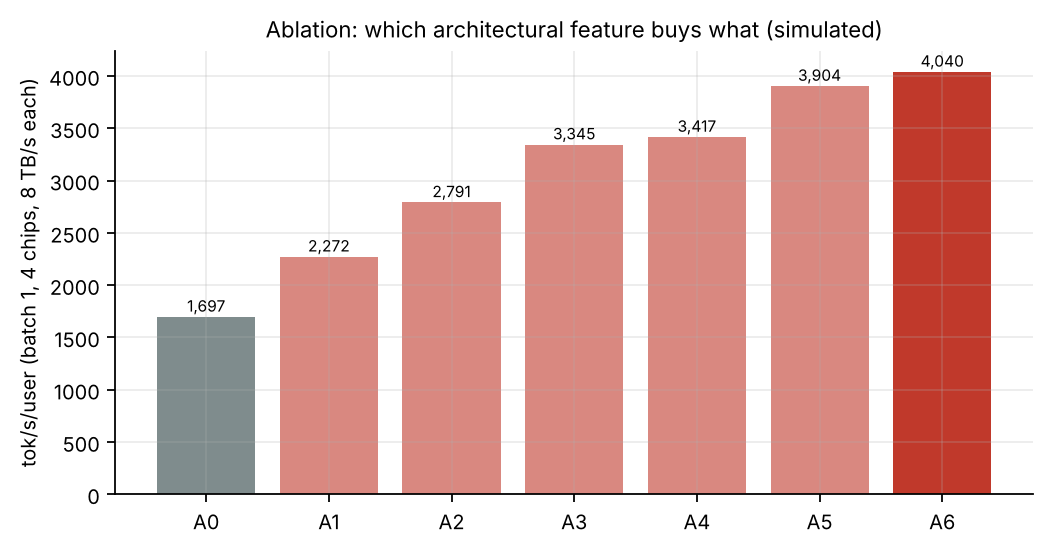
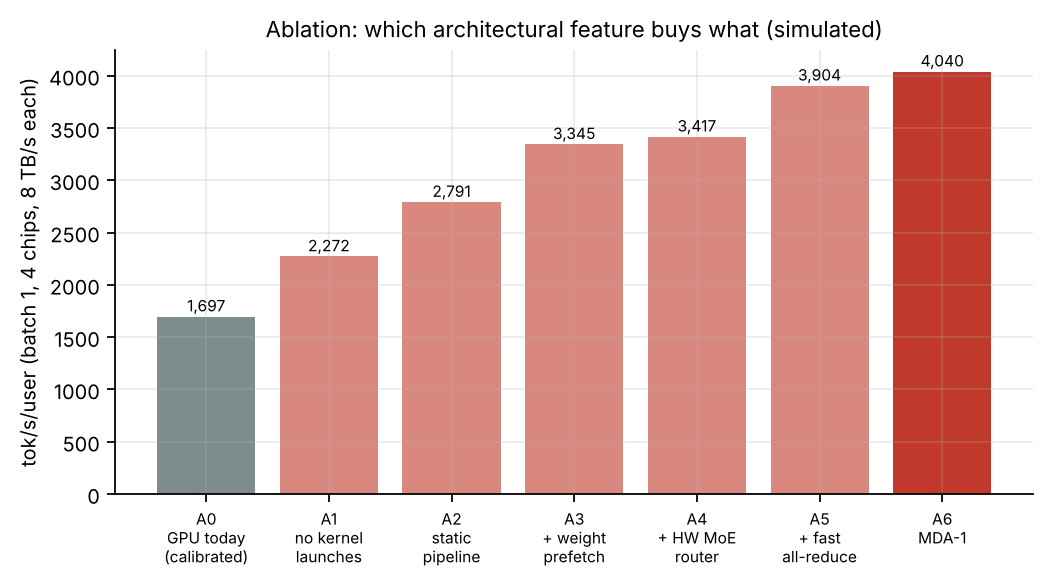
Add model_vs_nsys tool: model prediction in deepseek-ultrafast's nsys groups
Lets anyone falsify the fixed-latency diagnosis with one profile. Per-op
critical-path segments are now exposed by the engine; the prediction is
stored in results/decode.json and rendered into the docs.

diff --git a/tools/model_vs_nsys.py b/tools/model_vs_nsys.py
@@ -1,0 +1,64 @@
+#!/usr/bin/env python3
+"""Falsify the fixed-latency diagnosis with one profile.
+
+Prints the calibrated model's predicted time per decode step in the same kernel groups that
+deepseek-ultrafast's own `tools/nsys_breakdown.py` reports (each instant attributed to the
+earliest-started running kernel, which is the critical-path view our simulator also uses).
+
+    # on 4 x GB300, in the deepseek-ultrafast repo:
+    nsys profile -o step --capture-range=cudaProfilerApi ... target/release/run ...
+    python3 tools/nsys_breakdown.py step.sqlite          # their numbers
+    python3 tools/model_vs_nsys.py --config gb300_tp4     # our prediction (this repo)
+
+If the measured "all-reduce" + launch gaps + small-kernel groups do not add up to roughly the
+predicted fixed share, the diagnosis in docs/01 section 6 is wrong.
+"""
+import argparse
+import collections
+
+from experiments.platforms import platform, spec
+from sim.engine import simulate_step
+from sim.workload import DecodeWorkload, decode_step
+
+GROUPS = [  # deepseek-ultrafast tools/nsys_breakdown.py group names
+    "MoE (gate + route + experts)", "all-reduce / gather", "attention",
+    "dense projections (tcgen05: wqkv, wq_b, wo_a, wo_b)", "mHC side branch (dots, mix, prep)",
+    "indexer / top-k / compressor / rope", "draft phase (Markov head, FP8 draft head)",
+    "verify head + sampler + accept", "engram", "mma.sync GEMVs (drafter blocks, main_proj)",
+]
+
+
+def group(op) -> str:
+    if op.phase == "draft":
+        if op.name in ("markov_head", "draft_head"):
+            return GROUPS[6]
+        if op.category == "collective":
+            return GROUPS[1]
+        return GROUPS[9]
+    if op.phase == "head":
+        return GROUPS[7]
+    return {"moe_routed": GROUPS[0], "moe_shared": GROUPS[0], "router": GROUPS[0], "collective": GROUPS[1],
+            "attn_core": GROUPS[2], "attn_proj": GROUPS[3], "mhc": GROUPS[4], "indexer": GROUPS[5],
+            "engram": GROUPS[8]}.get(op.category, "other")
+
+
+def main() -> None:
+    ap = argparse.ArgumentParser()
+    ap.add_argument("--config", choices=["gb300_tp4", "b300_tp8"], default="gb300_tp4")
+    a = ap.parse_args()
+    key = "gpu_tp4" if a.config == "gb300_tp4" else "gpu_tp8"
+    ops = decode_step(spec(), DecodeWorkload(verify_head="fp8" if key == "gpu_tp4" else "bf16"))
+    r = simulate_step(ops, platform(key))
+    acc = collections.defaultdict(float)
+    for i, t in r.segments.items():
+        acc[group(ops[i])] += t
+    print(f"model: {a.config}, step {r.step_time * 1e6:.0f} us (calibrated)")
+    print("| group | predicted us / step | share |\n|---|---:|---:|")
+    for g, v in sorted(acc.items(), key=lambda kv: -kv[1]):
+        print(f"| {g} | {v * 1e6:.0f} | {100 * v / r.step_time:.0f}% |")
+    print(f"\npredicted fixed (launch/barrier/collective) share: "
+          f"{100 * (r.breakdown['overhead'] + r.breakdown['collective']) / r.step_time:.0f}%")
+
+
+if __name__ == "__main__":
+    main()

diff --git a/experiments/decode_experiments.py b/experiments/decode_experiments.py
@@ -58,6 +58,16 @@ def calibration_report() -> dict:
         wl = DecodeWorkload(verify_head=REP["configs"][k]["verify_head"])
         decomp[k] = run(hw, wl)
     out["decomposition"] = {k: v["breakdown_ms"] for k, v in decomp.items()}
+    # prediction in deepseek-ultrafast's own nsys_breakdown.py groups (tools/model_vs_nsys.py)
+    import collections
+    from tools.model_vs_nsys import group
+    ops4 = decode_step(spec(), DecodeWorkload(verify_head="fp8"))
+    r4 = simulate_step(ops4, platform("gpu_tp4"))
+    acc = collections.defaultdict(float)
+    for i, tseg in r4.segments.items():
+        acc[group(ops4[i])] += tseg
+    out["nsys_groups_tp4"] = [{"group": g, "us": v * 1e6, "share": v / r4.step_time}
+                              for g, v in sorted(acc.items(), key=lambda kv: -kv[1])]
     out["hbm_busy"] = {k: v["hbm_busy"] for k, v in decomp.items()}
     out["n_kernels_per_step"] = sum(o.n_kernels for o in decode_step(spec(), DecodeWorkload()))
     out["n_collectives_per_step"] = sum(1 for o in decode_step(spec(), DecodeWorkload()) if o.coll > 0)
@@ -273,7 +283,7 @@ def hbm_sweep() -> dict:
     ax.set_xlabel("HBM bandwidth per chip (TB/s)")
     ax.set_ylabel("tok/s/user (batch 1, 4 chips)")
     ax.set_title("Who converts memory bandwidth into speed (simulated)")
-    ax.legend(fontsize=7)
+    ax.legend(fontsize=7, loc="lower right")
     fig.savefig(FIG / "fig_hbm_sweep.png")
     plt.close(fig)
     return out
@@ -468,7 +478,9 @@ def ablation() -> dict:
     ax.bar(range(len(vals)), vals, color=[PALETTE["gpu"]] + ["#d98880"] * (len(vals) - 2) + [PALETTE["asic"]])
     for i, v in enumerate(vals):
         ax.text(i, v + 50, f"{v:,.0f}", ha="center", fontsize=7)
-    ax.set_xticks(range(len(vals)), [o["step"].split()[0] for o in out])
+    short = ["GPU today\n(calibrated)", "no kernel\nlaunches", "static\npipeline", "+ weight\nprefetch", "+ HW MoE\nrouter",
+             "+ fast\nall-reduce", "MDA-1"]
+    ax.set_xticks(range(len(vals)), [f'{o["step"].split()[0]}\n{s}' for o, s in zip(out, short)], fontsize=7)
     ax.set_ylabel("tok/s/user (batch 1, 4 chips, 8 TB/s each)")
     ax.set_title("Ablation: which architectural feature buys what (simulated)")
     fig.savefig(FIG / "fig_ablation.png")

diff --git a/sim/engine.py b/sim/engine.py
@@ -56,6 +56,7 @@ class StepResult:
     hbm_bytes: float
     breakdown: dict = field(default_factory=dict)  # critical-path time by cause
     by_category: dict = field(default_factory=dict)  # critical-path time by op category
+    segments: dict = field(default_factory=dict)  # op index -> critical-path time attributed to it
 
 
 def _op_costs(op: Op, hw: Hardware, hit_rate: float):
@@ -210,8 +211,8 @@ def simulate_step(ops: list[Op], hw: Hardware, hit_rate: float = 0.0) -> StepRes
     step = max(ends) + hw.step_overhead
     timings = [OpTiming(o, starts[i], ends[i], fetch_done[i], costs[i][3], costs[i][4], costs[i][5], hbm_bytes_op[i])
                for i, o in enumerate(ops)]
-    breakdown, by_cat = _critical_path(timings, costs, deps, hw.step_overhead)
-    return StepResult(step, timings, busy / step if step else 0.0, sum(hbm_bytes_op), breakdown, by_cat)
+    breakdown, by_cat, segs = _critical_path(timings, costs, deps, hw.step_overhead)
+    return StepResult(step, timings, busy / step if step else 0.0, sum(hbm_bytes_op), breakdown, by_cat, segs)
 
 
 def _buffer_ready(issued: dict[int, float], ends, cap: float, nbytes: float, t0: float) -> float:
@@ -240,6 +241,7 @@ def _critical_path(timings: list[OpTiming], costs, deps, step_ovh: float):
     or the compute-issue front) and attribute every segment of the step to one cause."""
     breakdown = {"overhead": step_ovh, "collective": 0.0, "memory": 0.0, "compute": 0.0}
     by_cat: dict[str, float] = {}
+    segs: dict[int, float] = {}
     i = max(range(len(timings)), key=lambda k: timings[k].end)
     T = timings[i].end
     while i is not None:
@@ -268,6 +270,7 @@ def _critical_path(timings: list[OpTiming], costs, deps, step_ovh: float):
         breakdown["memory"] += mem
         breakdown["compute"] += rest - mem
         by_cat[tm.op.category] = by_cat.get(tm.op.category, 0.0) + seg
+        segs[i] = segs.get(i, 0.0) + seg
         T = prev_T
         i = prev
-    return breakdown, by_cat
+    return breakdown, by_cat, segs

diff --git a/docs/02_design_rationale.md b/docs/02_design_rationale.md
@@ -31,13 +31,13 @@ puts the GPU on an owned basis. The SRAM-only and wafer-scale rows are idealized
 ### FPGA (AMD Alveo V80 / Versal HBM class)
 
 * **Capacity forces 16 cards.** Each V80 has 32 GB of HBM2e at 819 GB/s, so ~300 GB of weights needs ≥10 cards (16 for power-of-two sharding). The aggregate bandwidth (13 TB/s) is less than half of 4 x GB300 (32 TB/s).
-* **Compute is thin.** The DSP58 fabric gives ~35 TFLOP/s-equivalent of FP8 per card, so the drafter and the 6-row verify GEMVs become partly compute-bound (see `fig_step_breakdown` data in `results/decode.json`).
+* **Compute is thin.** The DSP58 fabric gives ~35 TFLOP/s-equivalent of FP8 per card, so the drafter and the 6-row verify GEMVs become partly compute-bound (0.92 ms of compute on the critical path; `results/decode.json`).
 * **Result: 1,179 tok/s/user, below the GPU baseline**, at 0.48 tok/J.
 * **What FPGA is good for here:** a zero-NRE prototype of the *control* ideas: the static schedule, the hardware router, prefetch and collectives. It can de-risk the ASIC's architecture. It is not a deployment vehicle for a 550B model.
 
 ### SRAM-only dataflow (Groq-class) and wafer-scale (Cerebras-class)
 
-* **Capacity sets chip count, not bandwidth.** 307 GB of FP4/FP8 weights needs 1,518 230 MB chips or 8 44 GB wafers per model replica, at 281 kW and 184 kW.
+* **Capacity sets chip count, not bandwidth.** 307 GB of FP4/FP8 weights needs 1,518 chips of 230 MB or 8 wafers of 44 GB per model replica, at 281 kW and 184 kW.
 * **Batch-1 per-user speed can be very high,** because SRAM bandwidth is effectively unlimited (an idealized 9,462 and 7,813 tok/s/user).
 * **Energy per token at low batch is 12-15x worse than the GPU.** These systems recover only by pipelining hundreds of concurrent requests through the layer groups.
 * **They are also exposed to model churn.** A 1.5k-chip replica is laid out for one model's size.

diff --git a/docs/05_limitations.md b/docs/05_limitations.md
@@ -12,7 +12,7 @@ output of a Python performance model whose inputs are listed below. The GPU numb
 |---|---|---|
 | model shapes and bytes | parameter counts, activated params and 890 B/token KV reproduced from checkpoint headers ([01](01_workload.md#2-architecture-numbers)) | strong |
 | GPU decode step model | leave-one-out across TP4/TP8: ≤1.6% with an independent bandwidth prior | moderate: 2 configurations, same software, same workload |
-| "about half the step is fixed latency" | holds (46%-58%) under every alternative calibration; consistent with published launch/all-reduce latencies | moderate: not confirmed by a profile (the repo ships `tools/nsys_breakdown.py`; one run would settle it) |
+| "about half the step is fixed latency" | holds (46%-58%) under every alternative calibration; consistent with published launch/all-reduce latencies | moderate: not confirmed by a profile. `tools/model_vs_nsys.py` prints our prediction in the groups of the engine's `tools/nsys_breakdown.py`; one run would settle it |
 | MDA-1 decode speed | bottom-up from component latencies and bandwidths; insensitive to its own latency assumptions (tornado) | **unvalidated**: no silicon, no RTL beyond the router |
 | matrix-engine utilization | SCALE-Sim cross-check (led to a 1.6x correction) | moderate (compute stage only) |
 | router latency | RTL verified in simulation, 256/256 vs golden model | strong for function, weak for timing (not synthesized) |

diff --git a/README.md b/README.md
@@ -75,7 +75,8 @@ Modeled projection, not silicon. The GPU model is calibrated on two points from 
 prompt. MDA-1's latencies and energies are bottom-up assumptions (sourced where possible, swept where
 not). Prefill is **not** calibrated: the measured prefill is 5.5x slower than our model. GPU power,
 GPU purchase price, MAC area and NRE are assumptions. One `nsys` profile of deepseek-ultrafast would
-confirm or refute the fixed-latency diagnosis. Full list: [docs/05_limitations.md](docs/05_limitations.md).
+confirm or refute the fixed-latency diagnosis: `python3 -m tools.model_vs_nsys` prints our per-group prediction in the
+exact groups of the engine's own `tools/nsys_breakdown.py`. Full list: [docs/05_limitations.md](docs/05_limitations.md).
 
 ## Layout
 
@@ -87,7 +88,7 @@ experiments/ one script per study; run_all.py drives them
 results/     generated JSON + figures
 rtl/         MoE top-k router + testbench
 docs/        01 workload · 02 rationale · 03 architecture · 04 results · 05 limitations · 06 simulator · sources
-tools/       fetch_checkpoint_manifest.py (network; regenerates data/checkpoint_manifest.csv)
+tools/       fetch_checkpoint_manifest.py (network; regenerates the manifest), model_vs_nsys.py (profile comparison)
 POST.md      draft thread and note to the Baseten team
 ```
 

diff --git a/POST.md b/POST.md
@@ -66,6 +66,6 @@ It says about 1.9 ms of each 3.30 ms step is fixed per-layer latency: roughly 44
 Two things you might find useful:
 
 1. The model puts the software ceiling on the same 4x GB300 at about 3,151 tok/s: persistent kernel, cross-layer L2 prefetch of the next layers' attention/shared weights while experts stream, and a ~2.4 µs all-reduce. The prefetch piece is the least obvious. Next-layer dense weights can stream during the current layer's gate→expert gap.
-2. One `nsys` run through your `tools/nsys_breakdown.py` would confirm or kill the diagnosis. I'd love to compare notes if you're up for sharing a breakdown.
+2. One `nsys` run through your `tools/nsys_breakdown.py` would confirm or kill the diagnosis. `tools/model_vs_nsys.py` in the repo prints our prediction in your exact kernel groups (MoE ~39%, all-reduce / gather ~20%, dense projections ~19% of the step). I'd love to compare notes if you're up for sharing a breakdown.
 
 The ASIC side, MDA-1, is a simulated projection: 4,040 tok/s/user on 4 chips at iso-HBM bandwidth. Everything is in the repo: https://github.com/benblaine/dsv41-accel-study
